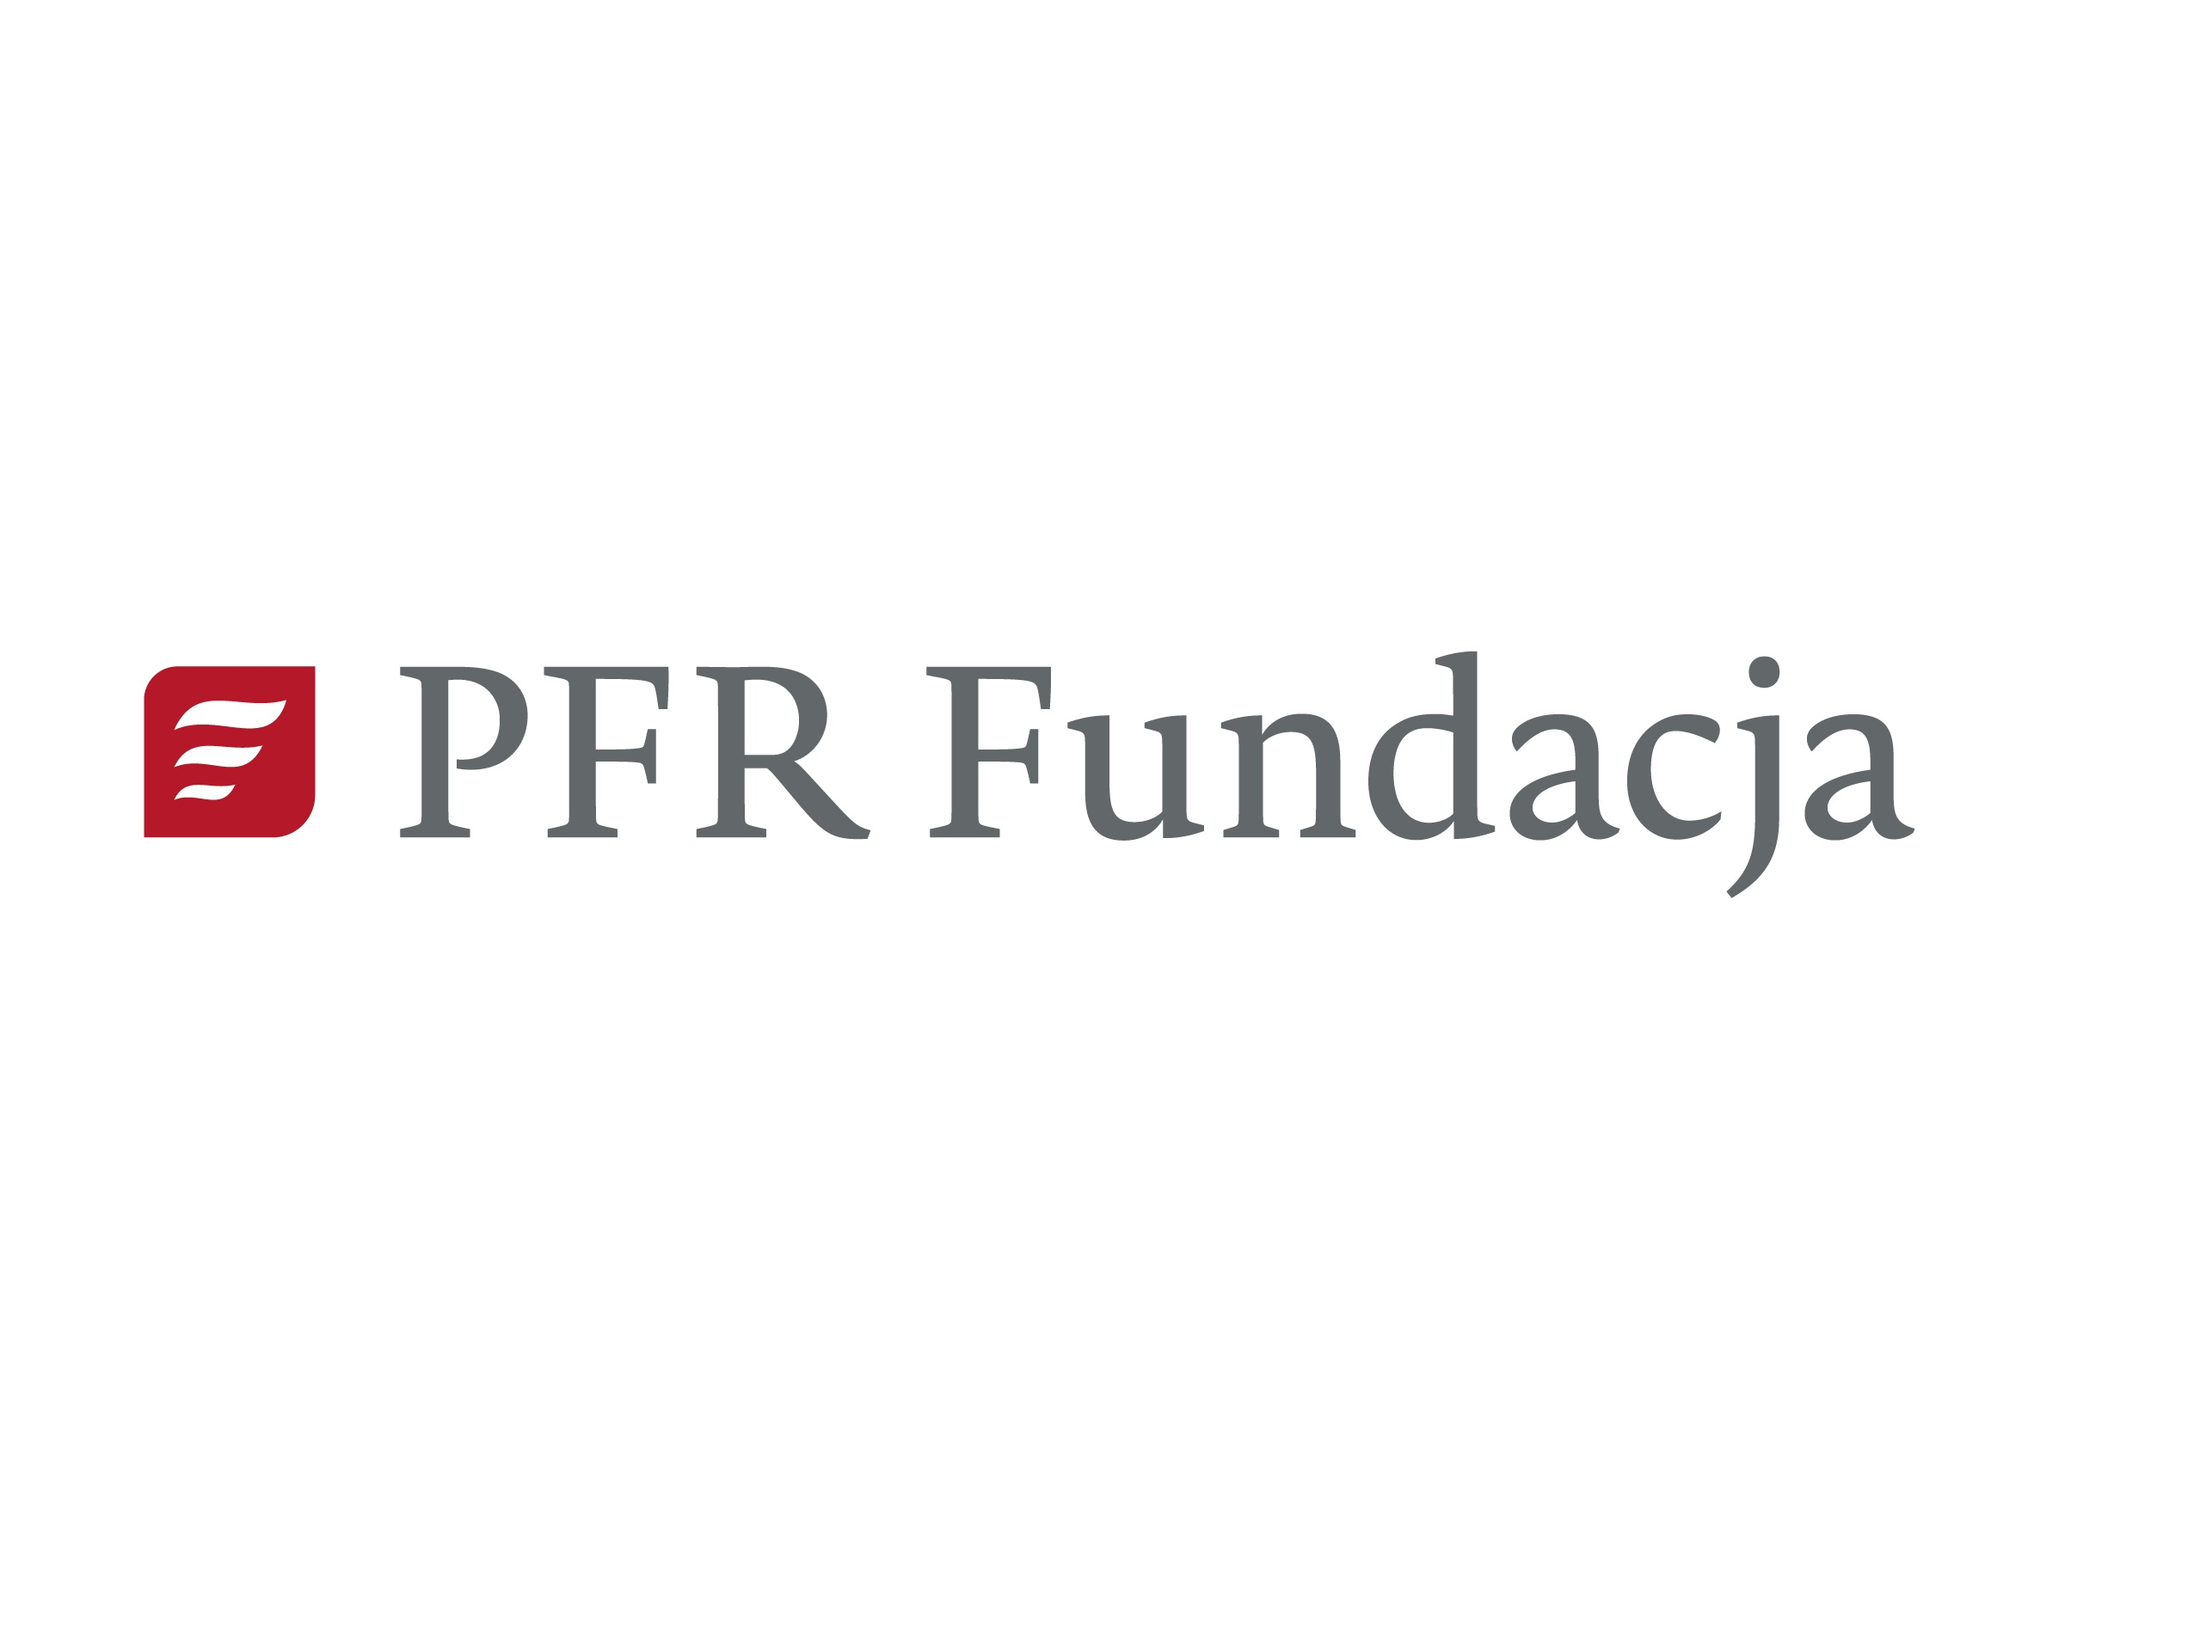
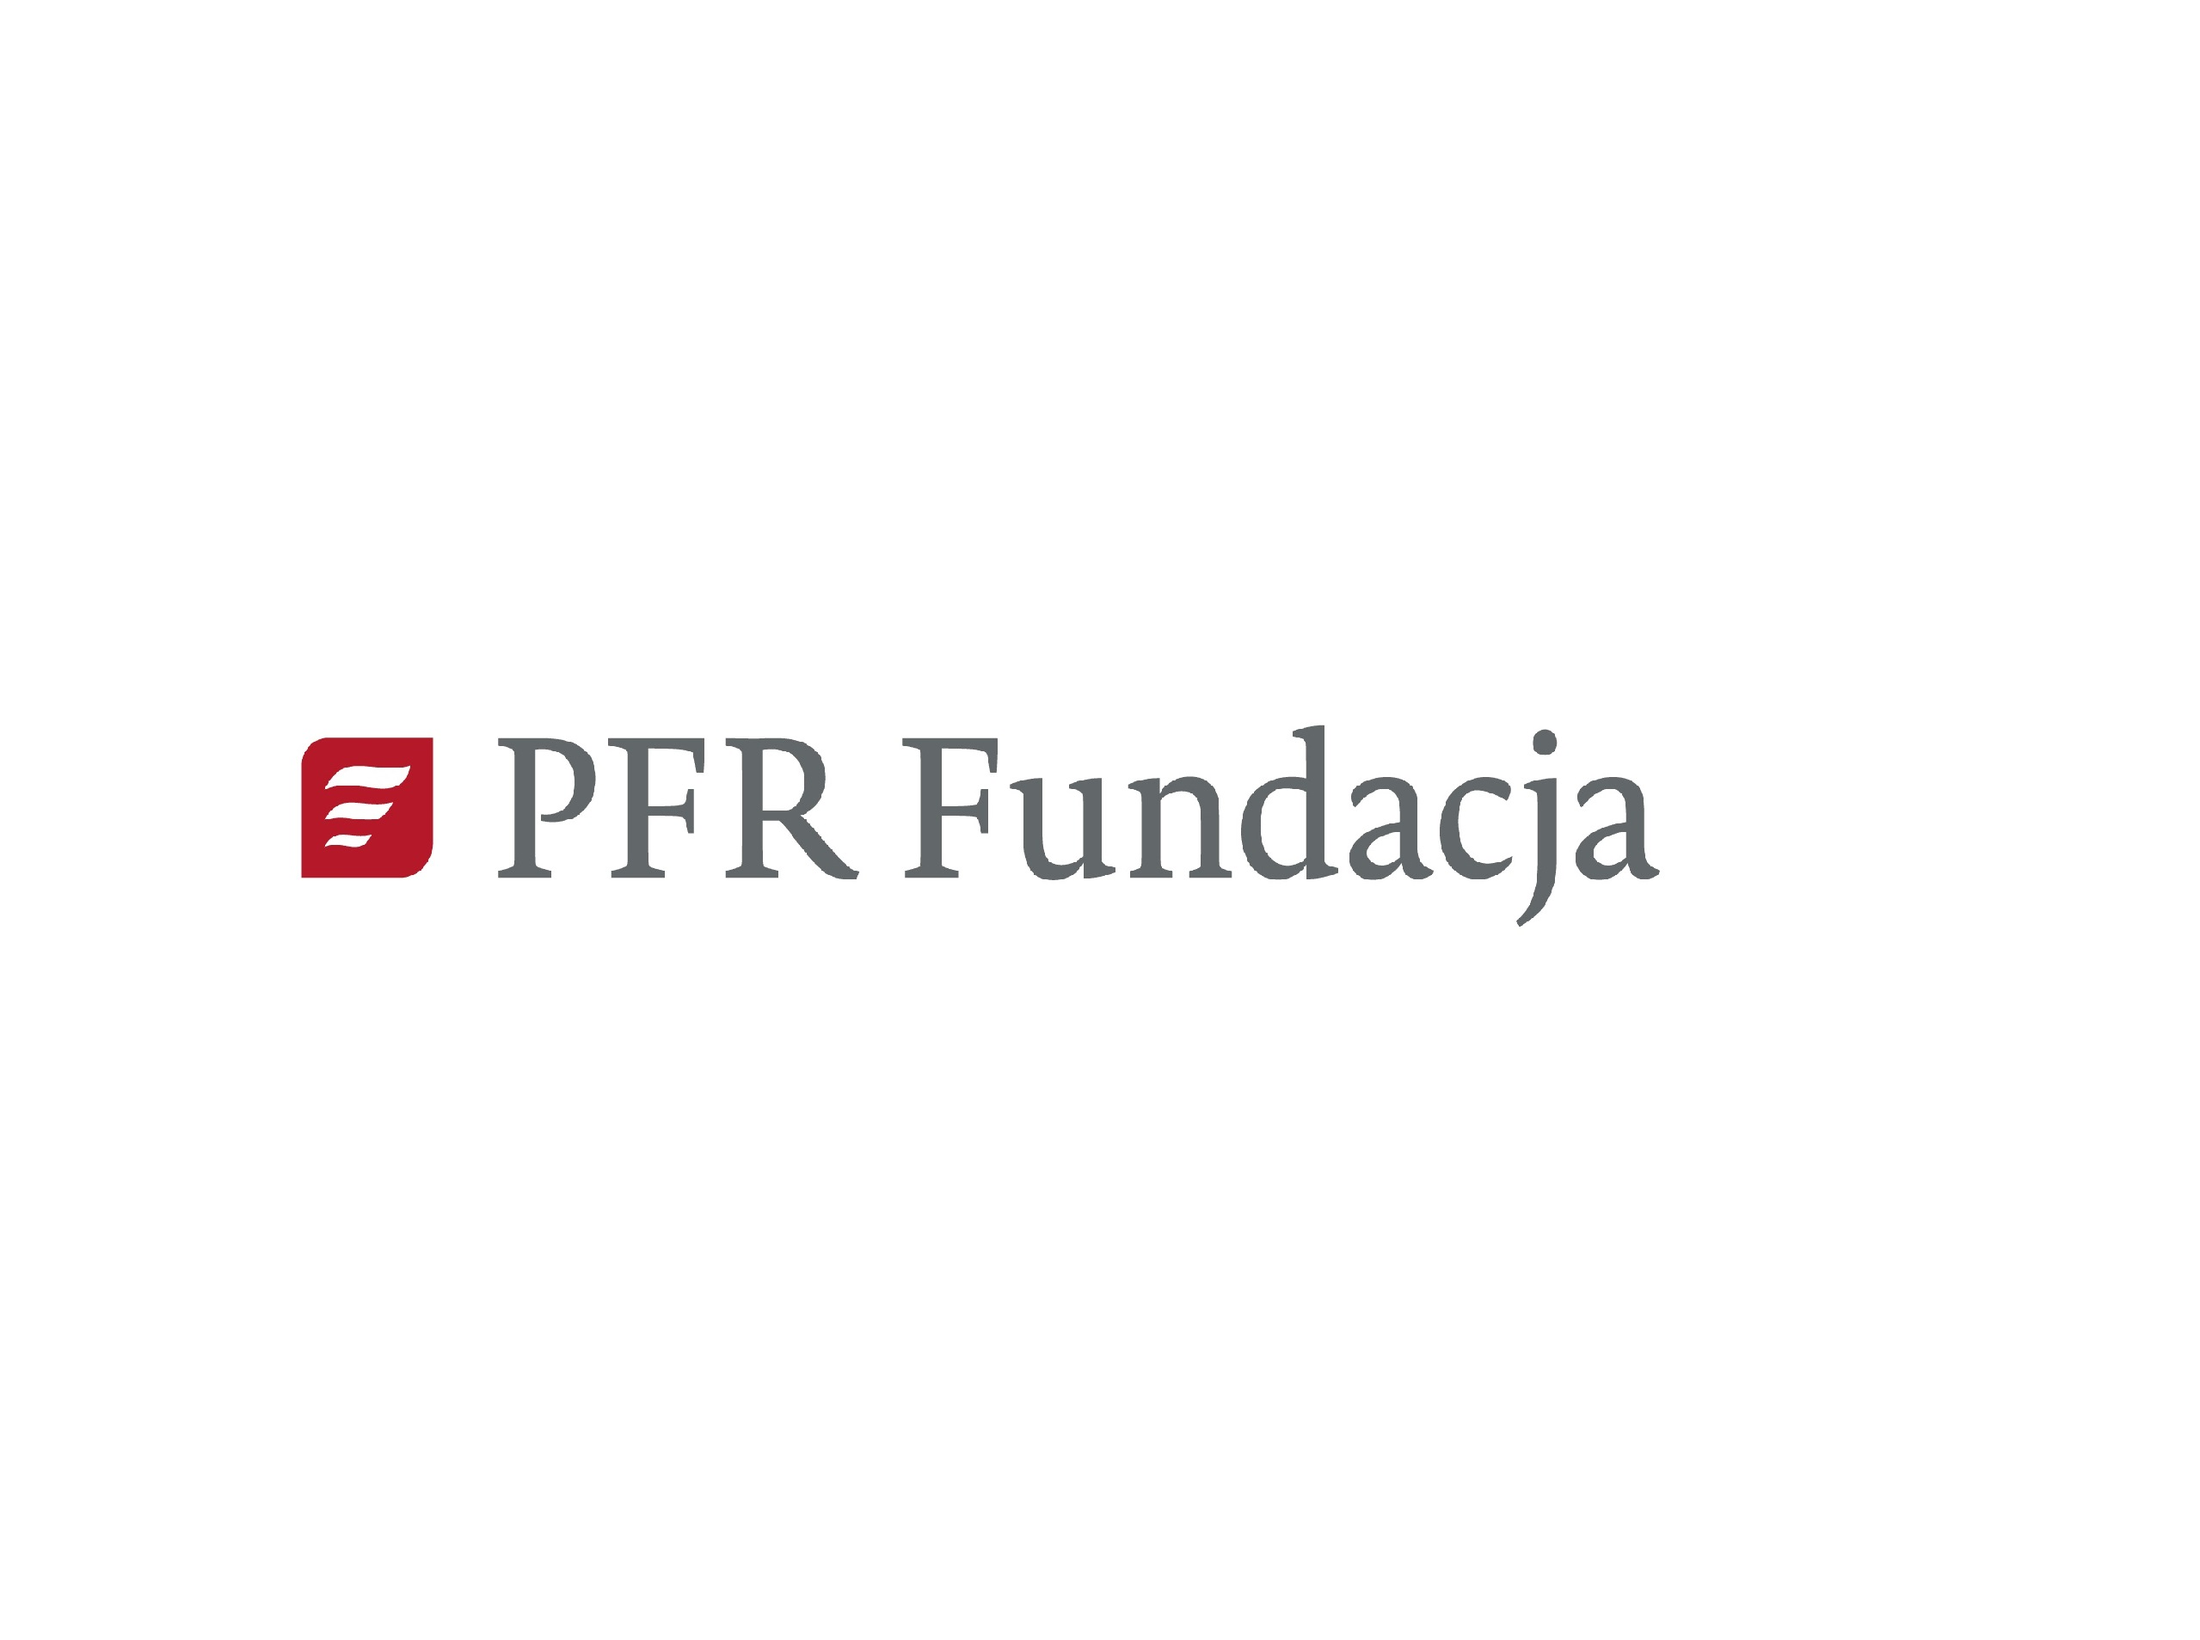
Update sponsors (#43)
* added google-scholar to mariaf bio

* changed orange poland to polska

* changed pfr name

* Delete avatar (9).jpg

* updated pfr logo

Changed region(s): [[0.0618, 0.402, 0.8647, 0.5566]]

diff --git a/content/authors/maria-ferlin/_index.md b/content/authors/maria-ferlin/_index.md
@@ -28,9 +28,9 @@ social:
 - icon: github
   icon_pack: fab
   link: https://github.com/mariaogryczak
-- icon: webpage
-  icon_pack: fas
-  link: https://mferlin.netlify.app/
+- icon: google-scholar
+  icon_pack: ai
+  link: https://scholar.google.com/citations?user=78_DqtIAAAAJ&hl=pl
 - icon: linkedin
   icon_pack: fab
   link: https://www.linkedin.com/in/maria-ferlin-b86770162/

diff --git a/content/authors/orange/_index.md b/content/authors/orange/_index.md
@@ -1,15 +1,15 @@
 ---
 # Display name
-title:  Orange Poland
+title:  Orange Polska
 
 # Is this the primary user of the site?
 superuser: false
 
 authors:
-- Name:  Orange Poland
+- Name:  Orange Polska
 
 # Role/position
-role:  
+role:  Orange Polska
 
 # Short bio (displayed in user profile at end of posts)
 bio: 

diff --git a/content/authors/pfr/_index.md b/content/authors/pfr/_index.md
@@ -1,12 +1,12 @@
 ---
 # Display name
-title:  Polski Fundusz Rozwoju
+title:  Fundacja PFR
 
 # Is this the primary user of the site?
 superuser: false
 
 authors:
-- Name:  Polski Fundusz Rozwoju
+- Name:  Fundacja PFR
 
 # Role/position
 role:  Polski Fundusz Rozwoju
